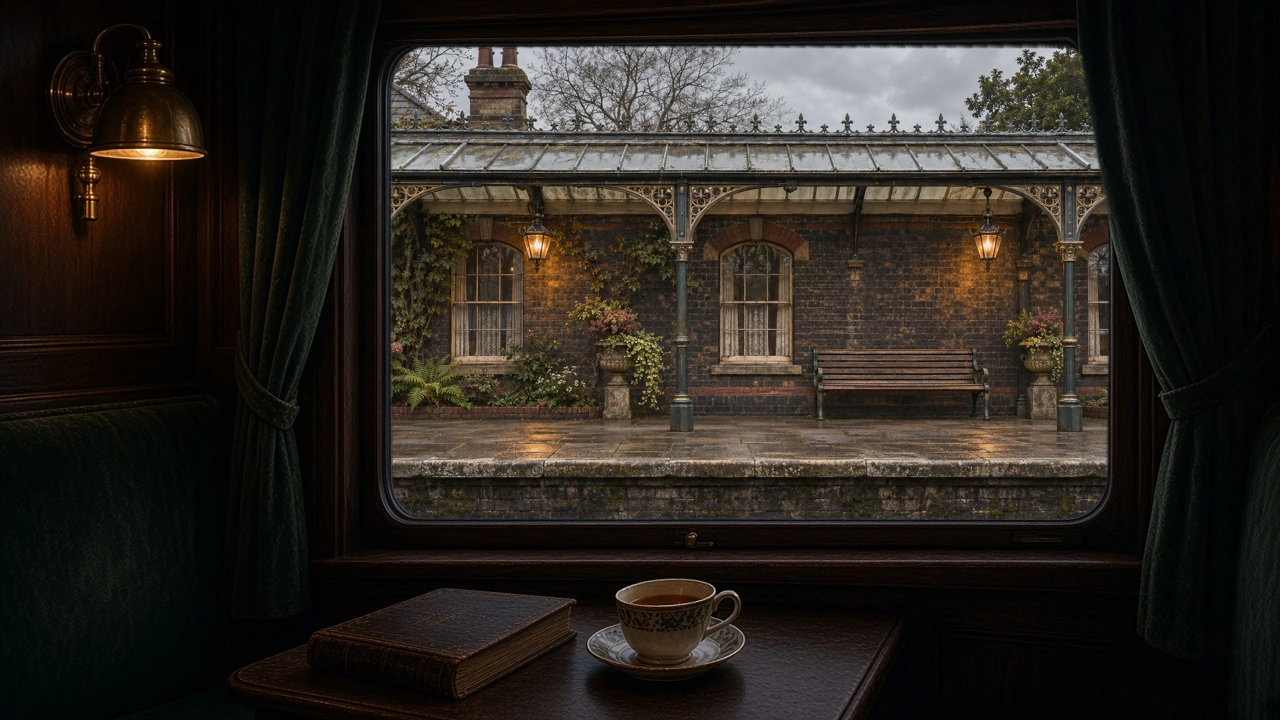
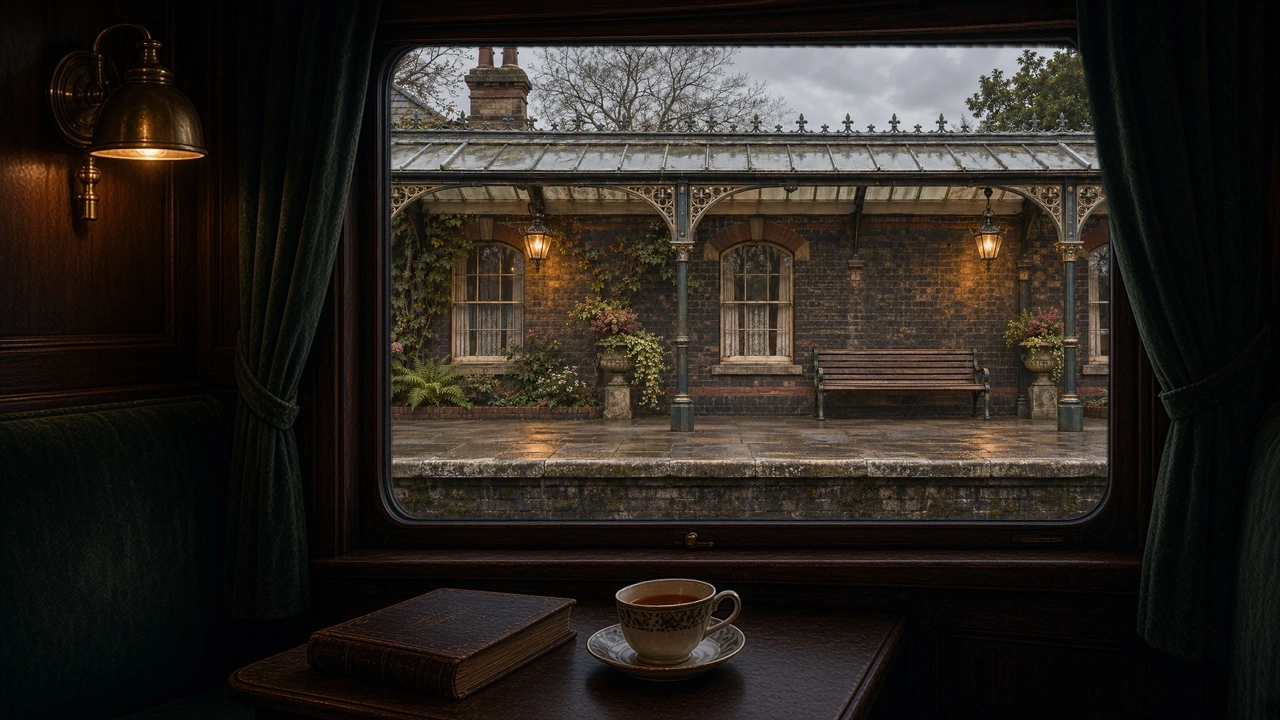
Ground the platform transitions, match forest terrain and bring the wheels forward

diff --git a/js/window.js b/js/window.js
@@ -91,12 +91,16 @@ export class WindowRenderer {
     this.after = items[last + 1];
     for (const neighbor of [this.before, this.after]) {
       if (neighbor?.scene) want.add(neighbor.scene.backdrop);
-      else if (neighbor) want.add(this.cfg.stationApproaches?.[neighbor.id]);
+      else if (neighbor) { want.add(this.cfg.stationApproaches?.[neighbor.id]); want.add(this.cfg.tunnelWall); }
     }
     want.forEach(a => a && this._img(a));
     for (const [src, e] of this.imgs) if (!want.has(src) && src !== this.frame.src) { e.img.onload = e.img.onerror = null; e.img.src = ''; this.imgs.delete(src); }
   }
-  get ready() { const it = this.plan.items[this.idx], s = it?.scene; if (!s) return false; const e = this._img(s.backdrop); return !!(this.frame.ok && (!e || e.ok || e.err)); }
+  get ready() { const it = this.plan.items[this.idx], s = it?.scene; if (!s) return false; const e = this._img(s.backdrop); const neighborsReady = [this.before, this.after].every(neighbor => {
+      const plate = this._img(this.cfg.stationApproaches?.[neighbor?.id]);
+      return !plate || plate.ok || plate.err;
+    });
+    return !!(this.frame.ok && neighborsReady && (!e || e.ok || e.err)); }
 
   start(getPos) {
     this.getPos = getPos; if (this.run) return; this.run = true; let last = 0; const minDt = 1000 / this.cfg.fps - 2;
@@ -203,16 +207,40 @@ export class WindowRenderer {
     c.globalAlpha = 1;
   }
 
-  _platformPass(station, offset) {
-    const entry = this._img(this.cfg.stationApproaches?.[station?.id]);
+  _platformPass(station, offset, arriving) {
+    const entry = this._img(this.cfg.stationApproaches?.[station.id]);
     if (!entry?.ok) return;
-    const P = this.pane, width = entry.img.naturalWidth * P.h / entry.img.naturalHeight;
+    const P = this.pane, c = this.c;
+    // A nearby abutment hides the join. The building beyond it moves only
+    // through the overscan of its photograph as the carriage comes to rest.
+    const pier = P.w * .20;
+    const edge = arriving ? offset - pier : P.w + pier + offset;
+    if (arriving ? edge - pier > P.w : edge + pier < 0) return;
+    const width = entry.img.naturalWidth * P.h / entry.img.naturalHeight;
     const margin = Math.max(0, (width - P.w) / 2);
-    const x = P.x - margin + offset;
-    if (x >= P.x + P.w || x + width <= P.x) return;
-    const edge = Math.min(margin, P.w * .12);
-    const surface = this._feathered(entry, width, P.h, edge, edge);
-    this.c.drawImage(surface, x, P.y, width, P.h);
+    const shift = margin * Math.tanh(offset / P.w * 1.4);
+    c.save();
+    c.beginPath();
+    const join = P.x + edge;
+    if (arriving) c.rect(join, P.y, P.x + P.w - join, P.h);
+    else c.rect(P.x, P.y, edge, P.h);
+    c.clip();
+    c.drawImage(entry.img, P.x - margin + shift, P.y, width, P.h);
+    c.restore();
+    const wall = this._img(this.cfg.tunnelWall);
+    if (wall?.ok && edge + pier / 2 > 0 && edge - pier / 2 < P.w) {
+      const x = join - pier / 2;
+      const sw = wall.img.naturalHeight * pier / P.h;
+      c.drawImage(wall.img, (wall.img.naturalWidth - sw) / 2, 0,
+        sw, wall.img.naturalHeight, x, P.y, pier, P.h);
+      const shade = c.createLinearGradient(x, 0, x + pier, 0);
+      shade.addColorStop(0, 'rgba(10,12,14,.65)');
+      shade.addColorStop(.09, 'rgba(10,12,14,.18)');
+      shade.addColorStop(.78, 'rgba(10,12,14,.22)');
+      shade.addColorStop(1, 'rgba(10,12,14,.74)');
+      c.fillStyle = shade;
+      c.fillRect(x, P.y, pier, P.h);
+    }
   }
 
   draw(pos) {
@@ -283,8 +311,8 @@ export class WindowRenderer {
     }
     c.globalCompositeOperation = 'source-over'; c.globalAlpha = 1;
     const platformSpeed = sc.near * P.h / 720;
-    if (prevIt?.station != null) this._platformPass(prevIt, (this.dist(it.start) - F) * platformSpeed);
-    if (nextIt?.station != null) this._platformPass(nextIt, (this.dist(it.end) - F) * platformSpeed);
+    if (prevIt?.station != null) this._platformPass(prevIt, (this.dist(it.start) - F) * platformSpeed, false);
+    if (nextIt?.station != null) this._platformPass(nextIt, (this.dist(it.end) - F) * platformSpeed, true);
     c.restore();
     if (this.frame.ok) c.drawImage(this.frame.img, 0, 0, this.W, this.H);
   }

diff --git a/js/audio.js b/js/audio.js
@@ -184,7 +184,7 @@ export class SessionAudio {
   _layerTiming(k, t, periodStart) {
     const layer = this.lib[k], duration = layer.buf.duration;
     const ls = duration > 2 ? .05 : 0, le = duration > 2 ? duration - .03 : duration;
-    let elapsed = t - periodStart, points = null, rate = 1;
+    let elapsed = t - periodStart, points = null, rate = 1, cruise = 1;
     if (layer.character === 'wheels') {
       for (const span of this.plan?.legSpans || []) {
         if (span.end <= periodStart || span.start > t) continue;
@@ -192,12 +192,12 @@ export class SessionAudio {
         const from = Math.max(span.start, periodStart), until = Math.min(t, span.end);
         const at = wheelPosition(curve, until);
         elapsed += at.seconds - wheelPosition(curve, from).seconds - (until - from);
-        if (t < span.end) { points = curve; rate = at.rate; }
+        if (t < span.end) { points = curve; rate = at.rate; cruise = Math.max(.60, span.speed ?? this.legs?.[span.leg]?.speed ?? 1); }
       }
     }
     // A returning sound joins a different part of its recording at each location.
     const phase = layer.character ? periodStart * .371 : 0;
-    return { ls, le, points, rate, offset: layerOffset(elapsed + phase, 0, ls, le) };
+    return { ls, le, points, rate, cruise, offset: layerOffset(elapsed + phase, 0, ls, le) };
   }
 
   _startAudibleLayer(k, t, when, periodStart, gain) {
@@ -212,7 +212,7 @@ export class SessionAudio {
     n.motion = motion;
     const speed = this.speed || 1;
     if (timing.points) {
-      const level = rate => .10 + .90 * (rate - .48) / .52;
+      const level = rate => .10 + .90 * Math.min(1, Math.max(0, (rate - .48) / (timing.cruise - .48)));
       motion.gain.setValueAtTime(level(timing.rate), when);
       n.s.playbackRate.setValueAtTime(timing.rate * speed, when);
       for (const [time, rate] of timing.points) {

diff --git a/js/scenes.js b/js/scenes.js
@@ -196,7 +196,7 @@ export class JourneyStage {
       void H.img.offsetWidth; H.img.classList.add('kb');
     }
     H.el.style.zIndex = '2'; old.el.style.zIndex = '1'; void H.el.offsetWidth;
-    const fade = instant ? 0 : (this.speed === 1 ? 2500 : 300);
+    const fade = instant || this.render.stationApproaches && (it.station != null || was === 'station') ? 0 : (this.speed === 1 ? 2500 : 300);
     H.el.style.transition = fade ? `opacity ${fade}ms ease-in-out` : 'none'; H.el.style.opacity = '1';
     this.top = 1 - this.top;
     this.log.push({ id: it.id, kind: it.kind, mode: H.mode, t: Date.now() });
@@ -243,7 +243,9 @@ export class WindowStage {
   }
   _platformLight(pos) {
     const elapsed = pos - this.plan.items[this.cur].start;
-    const light = 0.98 + 0.017 * Math.sin(elapsed / 13) + 0.009 * Math.sin(elapsed / 7);
+    const remaining = this.plan.items[this.cur].end - pos;
+    const envelope = Math.max(0, Math.min(1, elapsed / 4, remaining / 4));
+    const light = 1 + envelope * (.017 * Math.sin(elapsed / 13) + .009 * Math.sin(elapsed / 7));
     this.st.img.style.filter = `brightness(${light})`;
   }
   jump(want, pos) {
@@ -299,7 +301,7 @@ export class WindowStage {
     const my = ++this.token, C = this.cv, S = this.st, was = this.top;
     const prevCruise = this.plan.items[this.cur]?.kind === 'cruise';
     this.cur = n;
-    const fade = instant ? 0 : (this.speed === 1 ? 2500 : 300);
+    const fade = instant || this.render.stationApproaches && (it.station != null || was === 'station') ? 0 : (this.speed === 1 ? 2500 : 300);
     const reveal = (L, other, done) => {
       L.el.style.zIndex = '2'; other.el.style.zIndex = '1'; void L.el.offsetWidth;
       L.el.style.transition = fade ? `opacity ${fade}ms ease-in-out` : 'none'; L.el.style.opacity = '1';

diff --git a/sw.js b/sw.js
@@ -2,7 +2,7 @@
 // shadowed by stale JS or a stale manifest (v3 and older served the old shell first, which paired old player
 // code with the new schema-2 manifest => no video chain and no music). Media (mp4/mp3) is deliberately NOT
 // intercepted: iOS needs HTTP Range responses for <video>/<audio>, which Cache API replays badly.
-const VER = 'ws-v15';
+const VER = 'ws-v16';
 const SHELL = ['./', 'index.html', 'manifest.webmanifest', 'css/app.css', 'js/app.js', 'js/engine.js', 'js/audio.js', 'js/scenes.js',
   'js/player.js', 'js/window.js', 'js/journey.js', 'js/sync.js', 'js/request.js', 'js/config.js', 'icons/icon-192.png', 'icons/icon-512.png', 'icons/apple-touch-icon.png',
   'themes/index.json', 'themes/dark-academia-train/manifest.json',

diff --git a/tools/hollowmere_route.py b/tools/hollowmere_route.py
@@ -77,9 +77,9 @@ def integrate_landmarks(manifest):
 
 
 def balance_soundtrack(manifest):
-    manifest['version'] = 11
+    manifest['version'] = 12
     # Source loudness differs between the two interior recordings by almost 10 LU.
-    settings = {'train': (1.16, 'wheels'), 'train_soft': (2.95, 'wheels'),
+    settings = {'train': (2.0, 'wheels'), 'train_soft': (5.1, 'wheels'),
                 'rain_glass': (2.8, 'weather'), 'forest_wind': (3.15, 'weather'),
                 'wind_high': (2.2, 'weather'), 'blizzard': (2.25, 'weather'),
                 'lake_lap': (4.3, 'water'), 'stream': (3.25, 'water')}
@@ -88,6 +88,17 @@ def balance_soundtrack(manifest):
     for layer in manifest['stations'][1]['ambience']:
         if layer['layer'] == 'city_s1':
             layer['gain'] = 1.85
+    for station in manifest['stations']:
+        station.pop('loop', None)
+        station.pop('loopDur', None)
+        station['still'] = f"stills/platform-{station['id']}.webp"
+    for leg in manifest['legs']:
+        leg.update(rampIn=28, rampOut=34)
+    forest = manifest['legs'][2]
+    for view in forest['segments']:
+        # The photographed tree line supplies the middle distance.
+        view.pop('mid', None)
+        view['near'] = f"zones/forest/bank-{view['id']}.webp"
     # Match chapter music around -20.5 LUFS before the listener's volume control.
     trims = [[.49, .53], [.70, .69], [.64, .60], [.68, .72, .49, .54]]
     for leg, gains in zip(manifest['legs'], trims):
